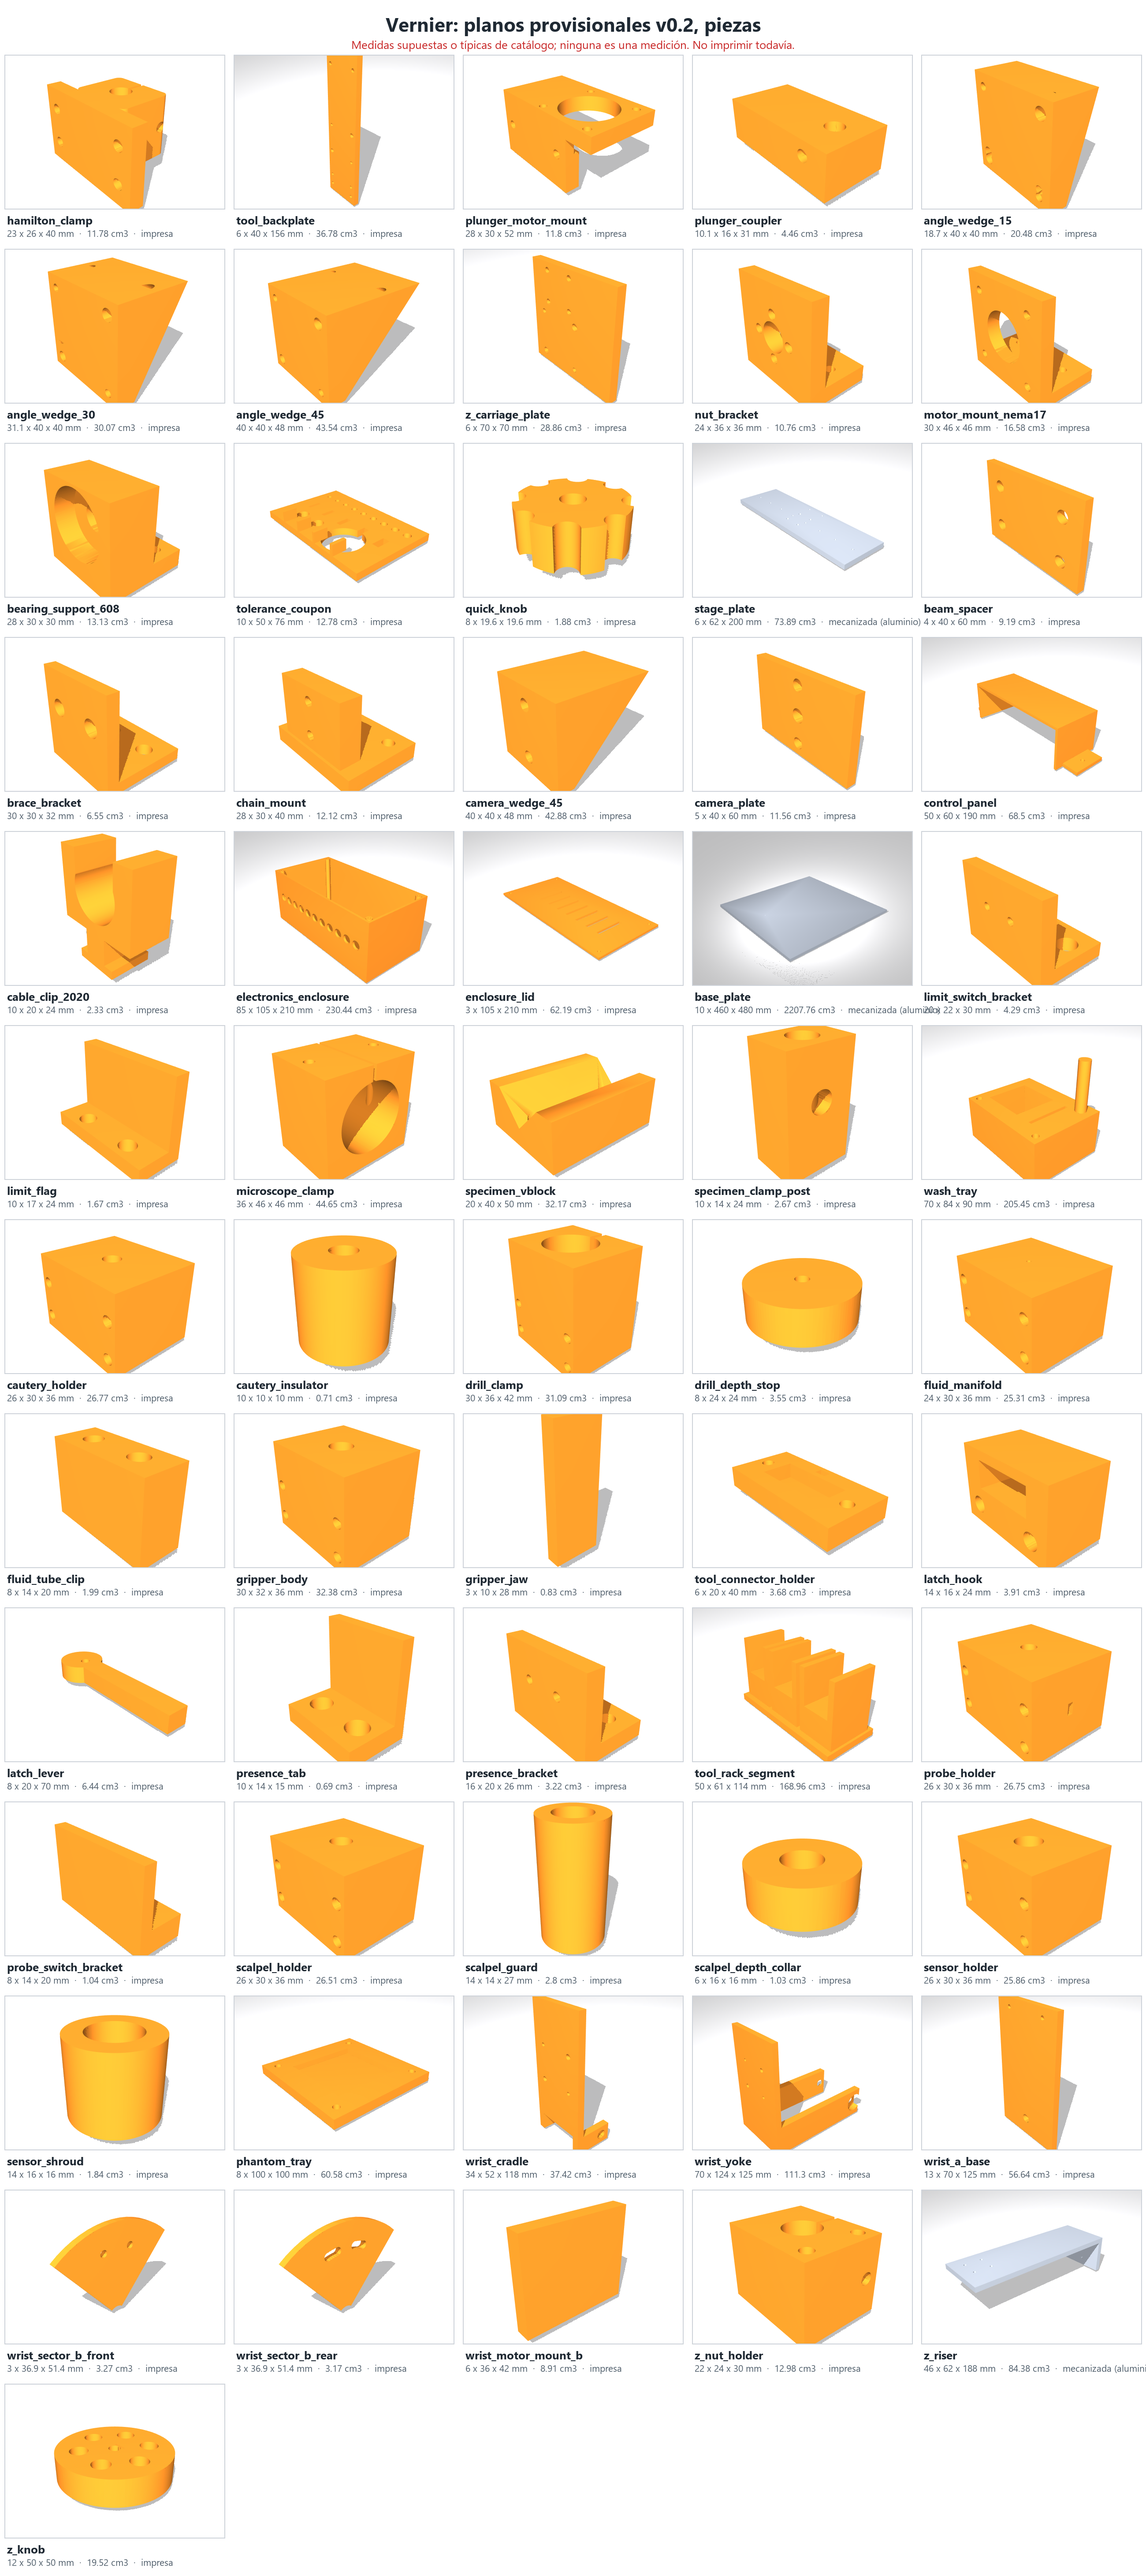
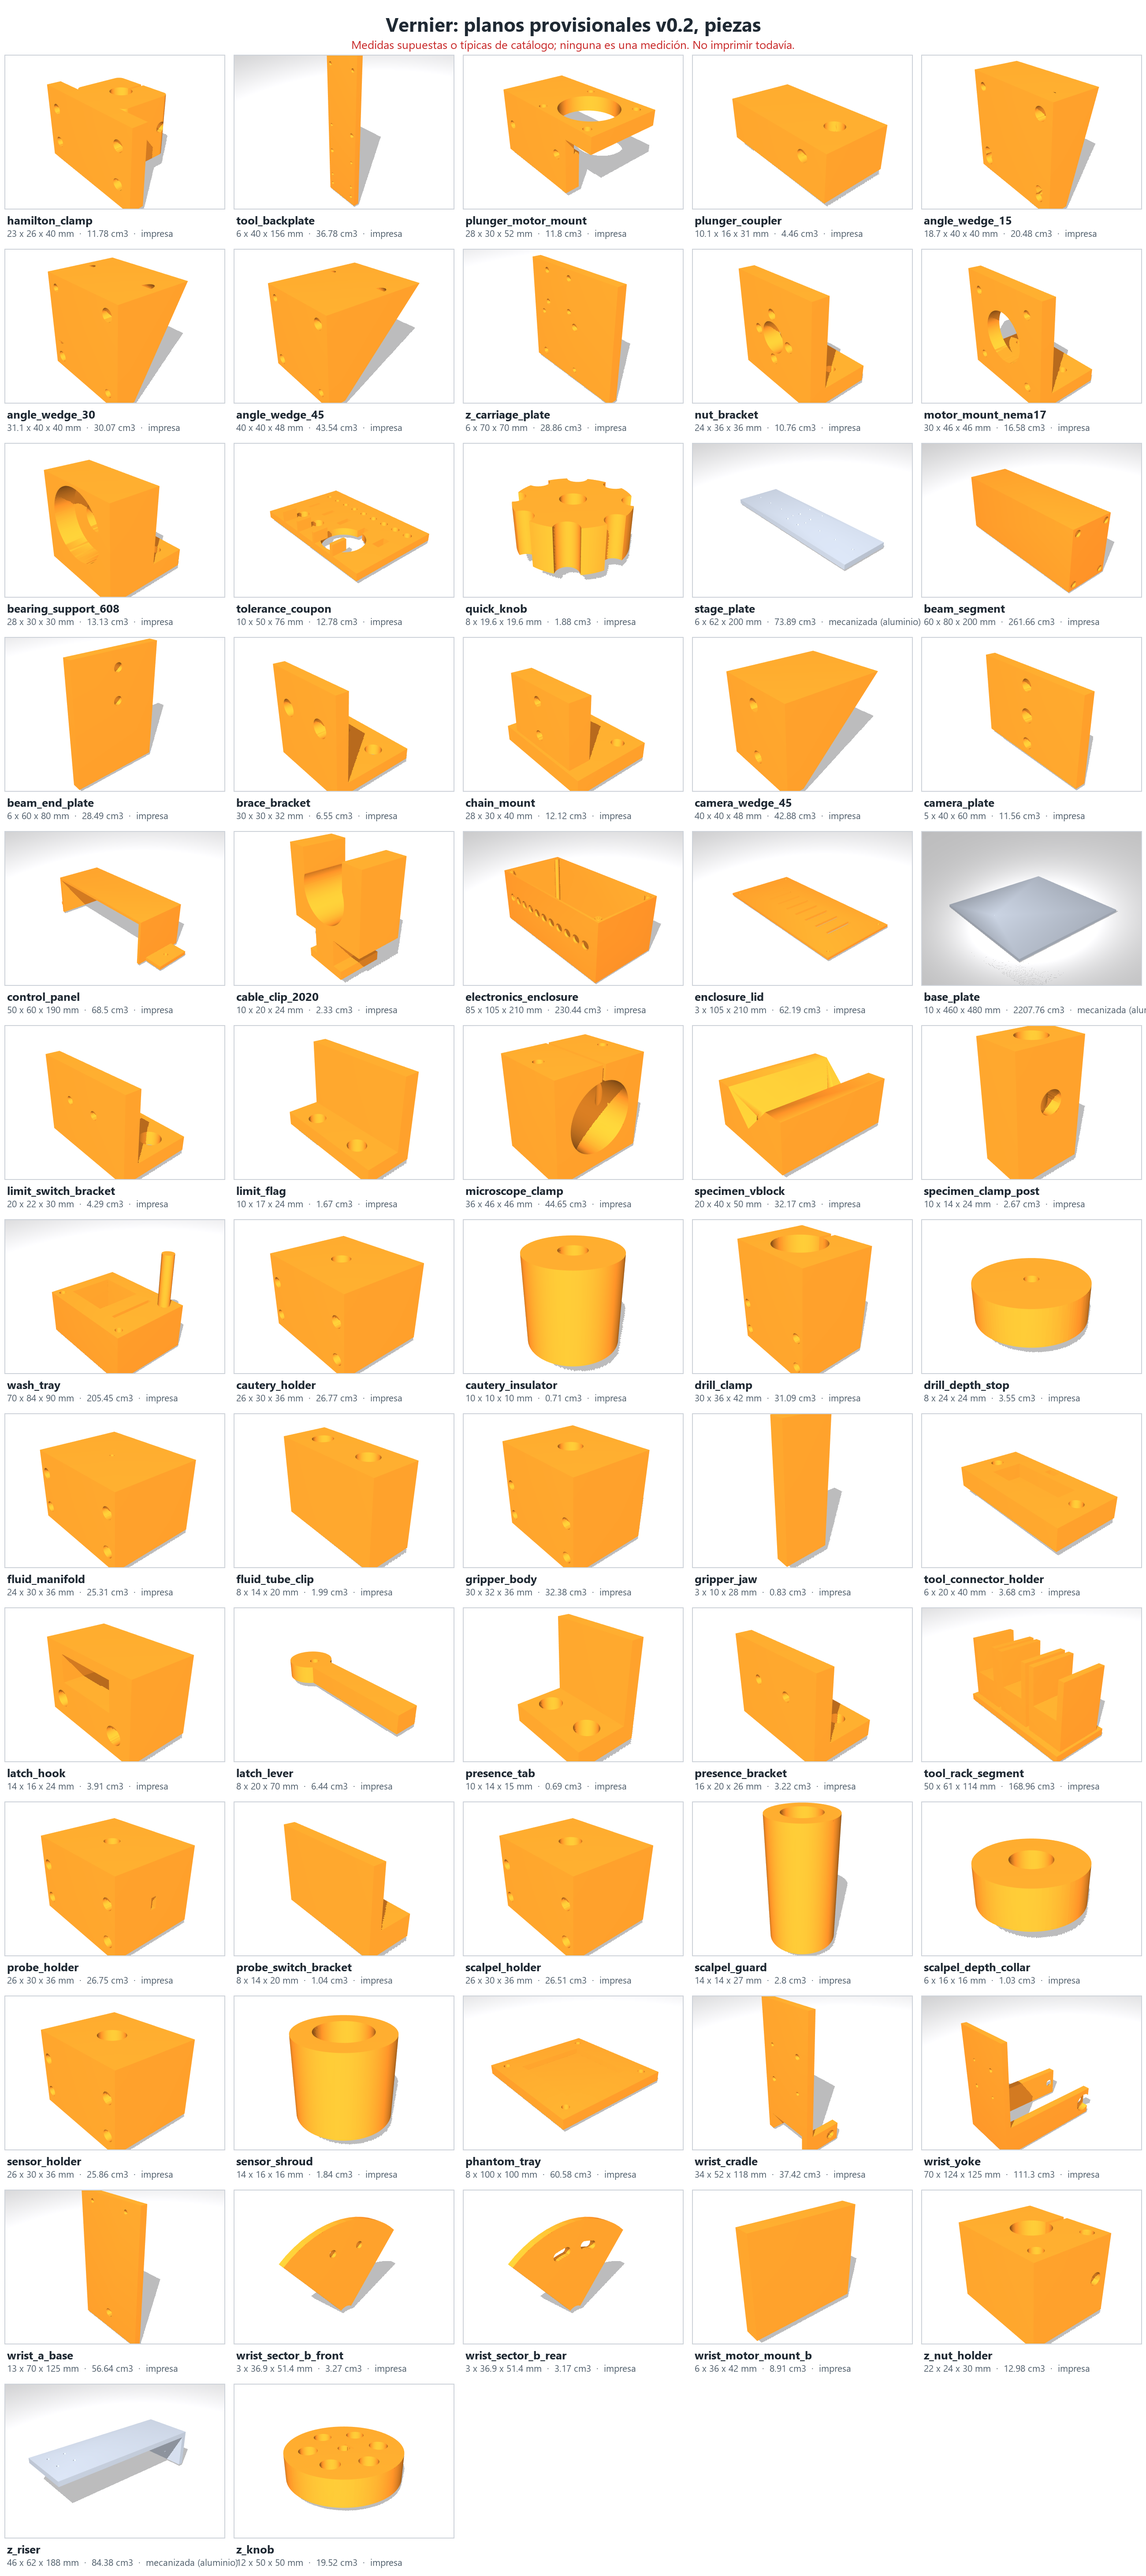
Refresh the CAD renders and READMEs with the printed beam
Supervised-by: Claude Sonnet 5.5 <noreply@anthropic.com>

diff --git a/README.md b/README.md
@@ -23,7 +23,7 @@ Early stage, still in simulation and design: **nothing here has run on hardware,
 
 - **Simulation (Phase 0):** the simulated gantry, the self-correction loop and an error model, checked by the CI.
 - **Controller firmware:** a hardware-independent C++ core with limits, a communication watchdog and an abort that withdraws the tool, plus a provisional board layer for an ESP32-S3 with one TMC2209 driver per axis. Both compile (the board layer for `esp32s3`) and are tested on a PC. A mutation check injects 21 faults, one at a time, into the core, the step queue and the pin map, and the tests must catch every one; it runs in the CI.
-- **CAD:** a provisional parametric model of the whole system (61 parts: frame with diagonal braces and a box crossbeam, three axes, an optional active two-axis wrist (B with a worm drive, A as a stage), tool head, two cameras and a microscope, controls, electronics enclosure, cable clips, a specimen fixture and a heater-plate parameter). It is a registry of modules, so parts can be developed in parallel. It has geometric checks (interferences at the corners of the travel and in the wrist swing, camera line of sight) and a first-order mechanical calculation, but no finite-element analysis and no real measurements. **Do not print yet.**
+- **CAD:** a provisional parametric model of the whole system (62 parts: frame with diagonal braces and a printed hollow crossbeam with four aluminium rods, three axes, an optional active two-axis wrist (B with a worm drive, A as a stage), tool head, two cameras and a microscope, controls, electronics enclosure, cable clips, a specimen fixture and a heater-plate parameter). It is a registry of modules, so parts can be developed in parallel. It has geometric checks (interferences at the corners of the travel and in the wrist swing, camera line of sight) and a first-order mechanical calculation, but no finite-element analysis and no real measurements. **Do not print yet.**
 - **Wiring map:** cables, conductor counts, estimated lengths and the moving harness, checked against the firmware pins.
 - **Host software** (all tested in the CI, none run on hardware): `host/coords/` (sample frames, camera calibration, triangulation), `host/link/` (serial protocol, session, heartbeat, hash-chained log), `host/toolsim/` (behaviour models of the eight tools and the wash station, with the limits read from their descriptors), `host/overlay/` (camera overlay on simulated frames: tip, target, error, firmware state, anatomical coordinates, each with how it was computed) and `host/llm/` (the interface for a language model: it fetches papers and proposes anything, with no quota; a person approves each proposal bound to its hash; machine plans use a list of capabilities and an advisory validator with no AI; narration and a log; the model is replaceable by a script).
 - **Plan:** a card board with a batch of 36 cards (decisions, software, one module per tool, integration and tests), arranged so independent work can run in parallel without clashing. It is kept outside this repository.
@@ -63,7 +63,7 @@ There is no fixed pass mark. The minimum acceptable is to beat a steady human ha
 
 ![The whole system with the large travel: tool rack and wash station inside the reach of the gantry](docs/cad/system_400x250x150.png)
 
-The eight tools and the wash station, drawn as printed parts (orange) around bought ones:
+The crossbeam is a hollow printed box in segments with aluminium rods (the large orange beam above). The eight tools and the wash station, drawn as printed parts (orange) around bought ones:
 
 ![The eight tools and the wash station](docs/cad/tools_and_wash_station.png)
 

diff --git a/cad/README.md b/cad/README.md
@@ -120,3 +120,13 @@ is fine and every collision is a station that sat outside the reach of the gantr
 B): they have to be laid out again inside the travel (card mech-estaciones). `python cad/mech_review.py` prints the loads, the beam sag and
 twist and the critical speed of each screw for the chosen travel; T8 screws are not enough above about 300 mm.
 
+## Printed hollow crossbeam (card mech-viga)
+
+The X beam is no longer two 2020 profiles: `modules/beam.py` builds it as printed tube segments (at most 200 mm, the print volume is 220 mm)
+with four rod bosses and a bulkhead every 50 mm, four 8 mm aluminium rods through all the bores (0.2 mm clearance for the epoxy) and a 6 mm
+end plate on each side. The section follows the X travel: 60 x 80 mm for 100 mm, 80 x 100 mm for a large travel (`BEAM_W`, `BEAM_H` in
+`params.py`). `python cad/mech_review.py` compares three sections: bending is easy (a 40 x 60 mm tube with the rods is about ten times a 2020
+profile), **torsion decides**: at X 400 mm only the 80 x 100 mm section keeps the tip shift near 0.4 mm. Not designed yet: the flatness of
+the rail seat, the heat-set inserts for the rail screws, how the rods are held at the uprights, and the real stiffness of a bonded printed
+tube, which needs a printed test beam. Both the default travel and X 400, Y 250, Z 150 build without interferences.
+

diff --git a/docs/cad/README.md b/docs/cad/README.md
@@ -13,7 +13,7 @@ part drawn as a placeholder. **Every size is an assumption or a catalogue value;
 
 They are generated, not drawn: `python cad/build.py out` builds the STL files and checks the geometry, `python cad/render.py out docs/cad`
 renders the sheets. The travel is chosen with `VERNIER_TRAVEL="x,y,z"` (see [cad/README.md](../../cad/README.md)). The large-travel image is
-a study (card `mech-estaciones`): it builds without interferences and with every camera line of sight clear, but the beam and the
-transmission for that travel are not designed yet.
+a study (cards `mech-estaciones` and `mech-viga`): it builds without interferences and with every camera line of sight clear; the crossbeam
+is the printed hollow box with aluminium rods (the large orange beam), and the transmission for that travel is not designed yet.
 
 See also the [connection map](../connection_map.md) and the [block diagram](../wiring_blocks.png).
